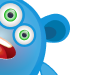
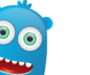
updating leaderboard images for team 6

diff --git a/mobile/src/Student/screens/Game/Leaderboard/Components/TeamItem/index.js b/mobile/src/Student/screens/Game/Leaderboard/Components/TeamItem/index.js
@@ -19,8 +19,8 @@ const TeamItem = ({ teamNo, score, teamName }) => {
             imageUrl = require("../../img/team_2_icon.png")
             break
         case 3:
-            backgroundColorStart = "#69000B"
-            backgroundColorEnd = "#8B000A"
+            backgroundColorStart = "#2E2A49"
+            backgroundColorEnd = "#1496DB"
             imageUrl = require("../../img/team_3_icon.png")
             break
         case 4:
@@ -34,8 +34,8 @@ const TeamItem = ({ teamNo, score, teamName }) => {
             imageUrl = require("../../img/team_5_icon.png")
             break
         case 6:
-            backgroundColorStart = "#FED52B"
-            backgroundColorEnd = "#C64E0F"
+            backgroundColorStart = "#2E2A49"
+            backgroundColorEnd = "#1496DB"
             imageUrl = require("../../img/team_6_icon.png")
             break
         default:
